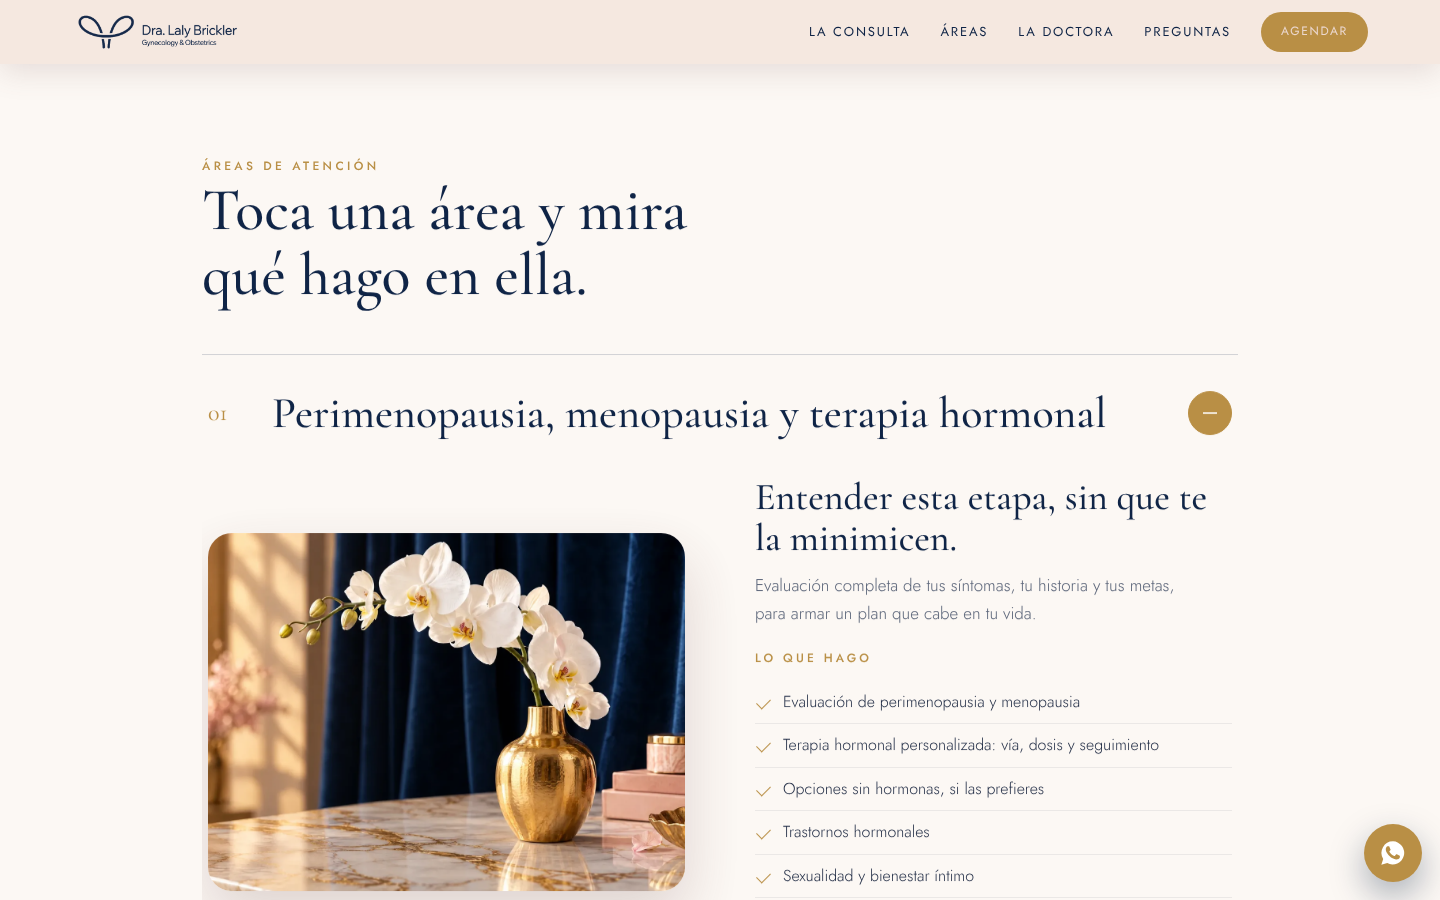
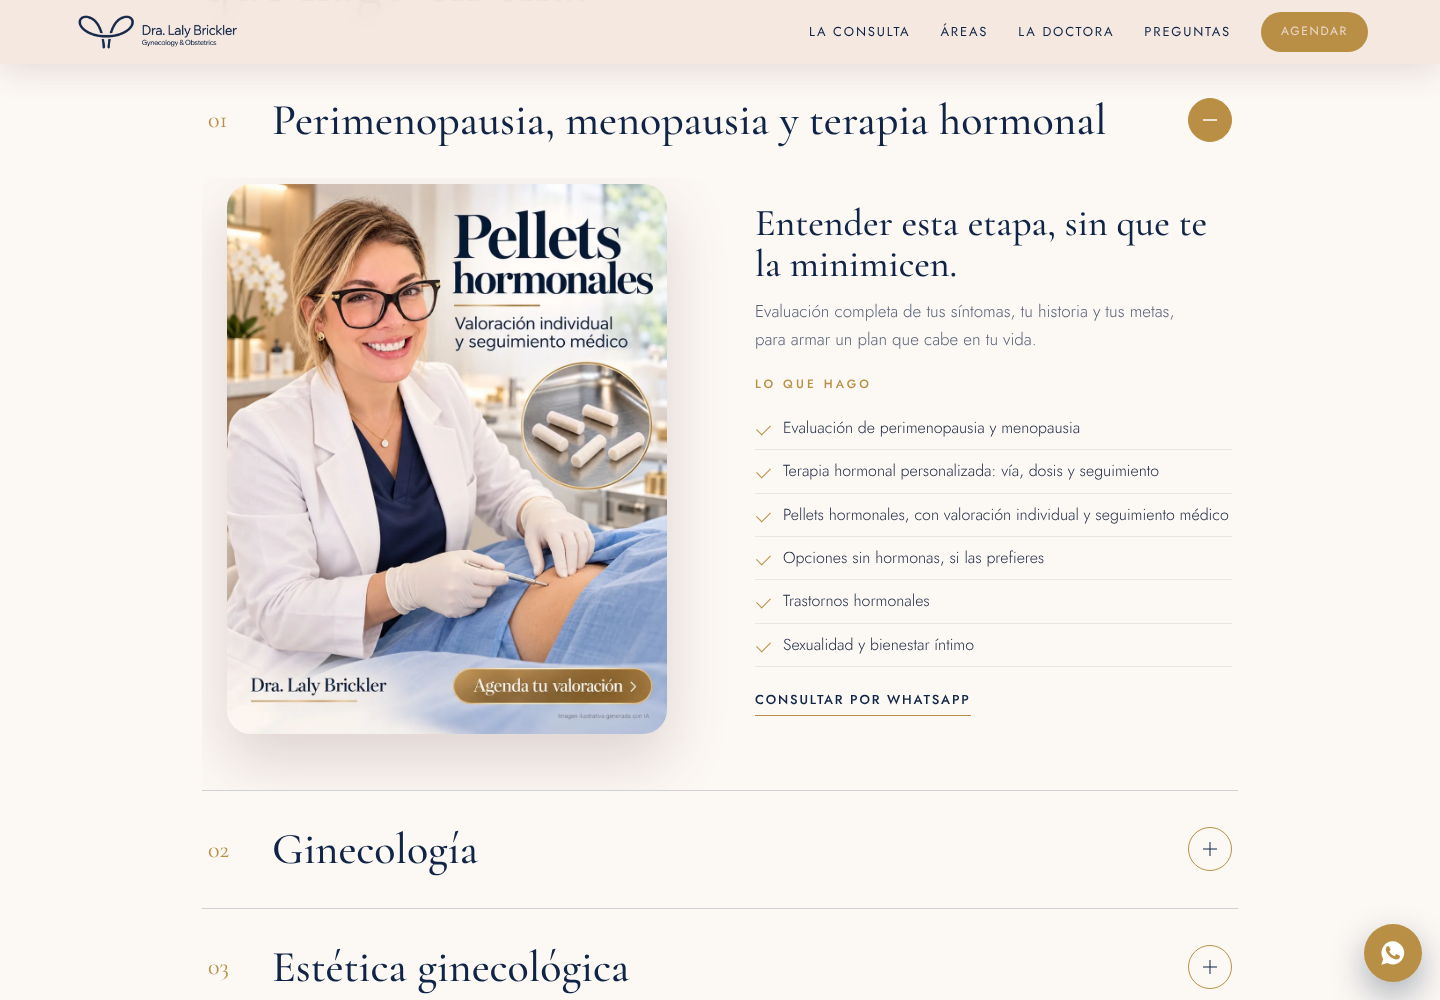
Use pellets image in perimenopause/menopause/hormone therapy branch
Claude-Session: https://claude.ai/code/session_016t7eSQbEreZDrmVY67GwuZ

diff --git a/website/index.html b/website/index.html
@@ -268,6 +268,8 @@ footer .fine a{text-decoration:underline}
 .acc-item.open .acc-body{opacity:1;transform:none}
 .acc-img{border-radius:24px;overflow:hidden;aspect-ratio:4/3;box-shadow:0 26px 60px rgba(120,80,80,.22)}
 .acc-img img{width:100%;height:100%;object-fit:cover}
+.acc-img.tall{display:block;aspect-ratio:4/5;max-width:440px;justify-self:center;transition:transform .5s var(--ease)}
+.acc-img.tall:hover{transform:translateY(-4px)}
 .acc-body h3{font-size:clamp(26px,2.8vw,38px)}
 .acc-body p{margin-top:12px;color:var(--muted);max-width:46ch}
 .acc-label{display:block;margin-top:22px;font-size:12px;letter-spacing:.26em;text-transform:uppercase;color:var(--gold);font-weight:500}
@@ -379,12 +381,12 @@ footer .fine a{text-decoration:underline}
       <div class="acc-item open" id="peri">
         <button class="acc-head" id="h-peri" aria-expanded="true" aria-controls="p-peri"><span class="acc-num">01</span><span class="acc-title">Perimenopausia, menopausia y terapia hormonal</span><span class="acc-icon" aria-hidden="true"></span></button>
         <div class="acc-panel" id="p-peri" role="region" aria-labelledby="h-peri"><div class="acc-inner"><div class="acc-body">
-          <div class="acc-img"><img src="assets/perimenopausia.webp" alt="Orquídea blanca en un florero dorado sobre mármol" loading="lazy" width="1400" height="1050"></div>
+          <a class="acc-img tall" href="https://wa.me/50672498786?text=Hola%20Dra.%20Brickler%2C%20quisiera%20una%20valoraci%C3%B3n%20para%20pellets%20hormonales." target="_blank" rel="noopener" aria-label="Agendar valoración de pellets hormonales por WhatsApp"><img src="assets/pellets.webp" alt="La Dra. Brickler durante una valoración de pellets hormonales" loading="lazy" width="1000" height="1250"></a>
           <div>
             <h3>Entender esta etapa, sin que te la minimicen.</h3>
             <p>Evaluación completa de tus síntomas, tu historia y tus metas, para armar un plan que cabe en tu vida.</p>
             <span class="acc-label">Lo que hago</span>
-            <ul><li>Evaluación de perimenopausia y menopausia</li><li>Terapia hormonal personalizada: vía, dosis y seguimiento</li><li>Opciones sin hormonas, si las prefieres</li><li>Trastornos hormonales</li><li>Sexualidad y bienestar íntimo</li></ul>
+            <ul><li>Evaluación de perimenopausia y menopausia</li><li>Terapia hormonal personalizada: vía, dosis y seguimiento</li><li>Pellets hormonales, con valoración individual y seguimiento médico</li><li>Opciones sin hormonas, si las prefieres</li><li>Trastornos hormonales</li><li>Sexualidad y bienestar íntimo</li></ul>
             <a class="link" href="https://wa.me/50672498786?text=Hola%20Dra.%20Brickler%2C%20quisiera%20una%20consulta%20por%20perimenopausia%2C%20menopausia%20o%20terapia%20hormonal." target="_blank" rel="noopener">Consultar por WhatsApp</a>
           </div>
         </div></div></div>
